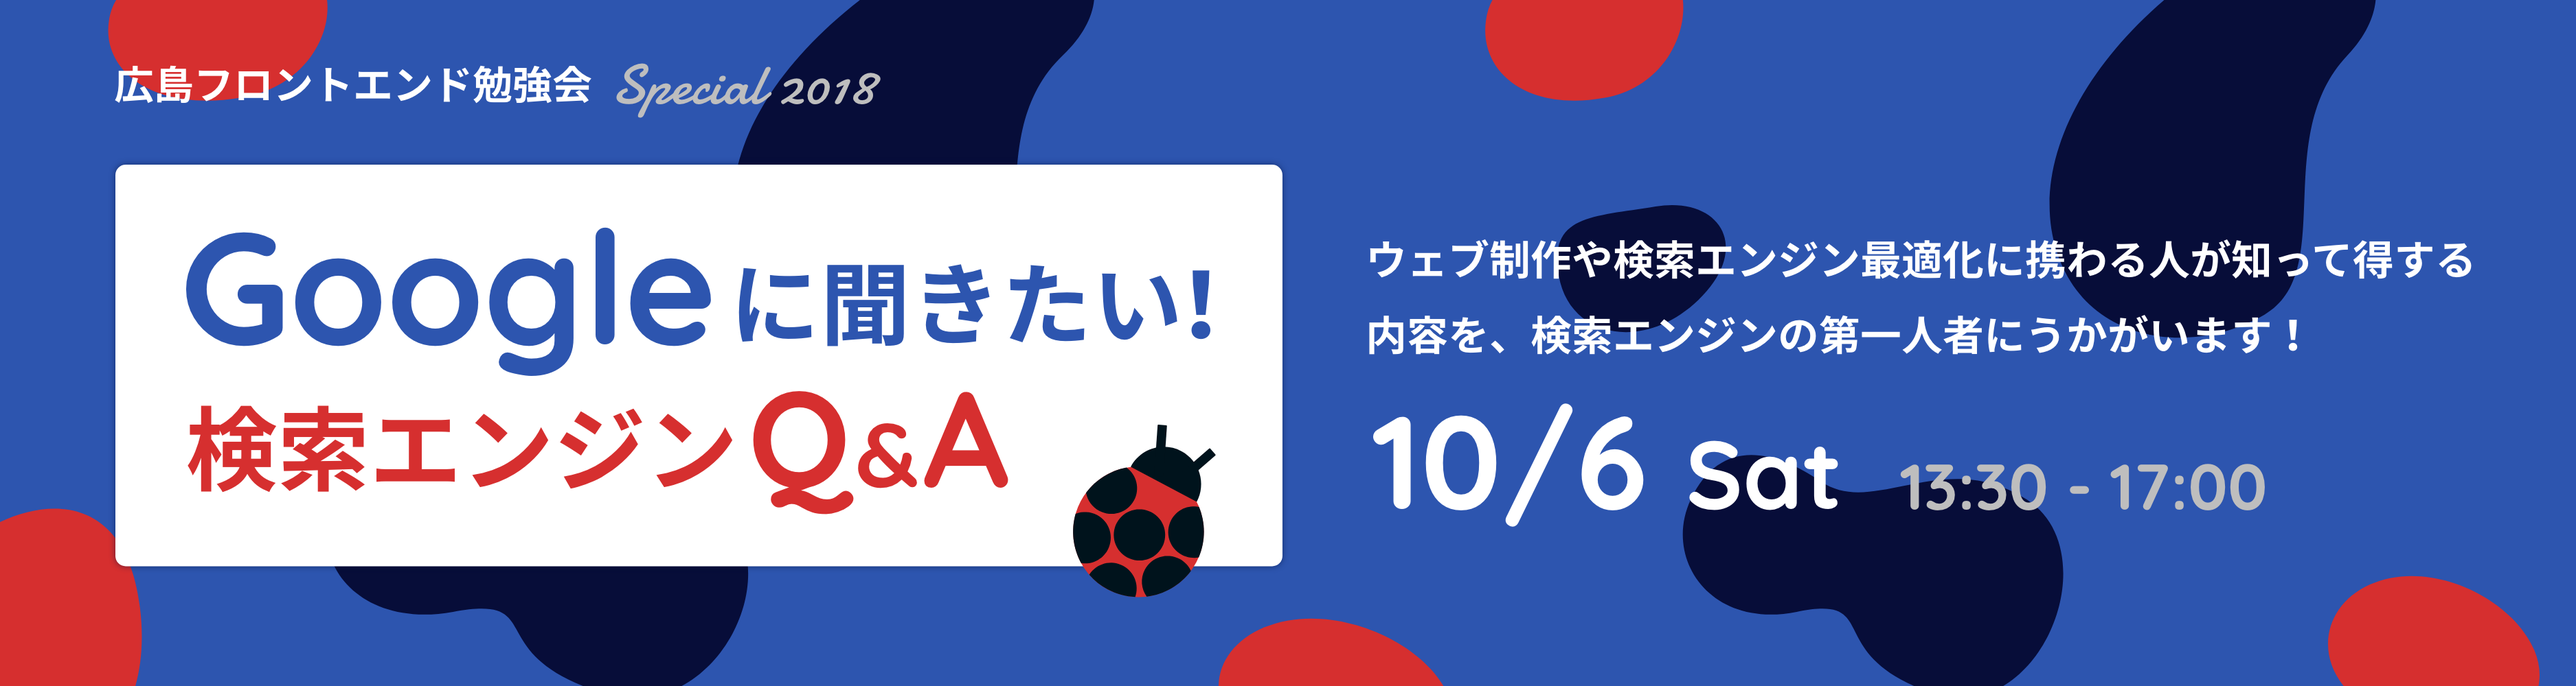
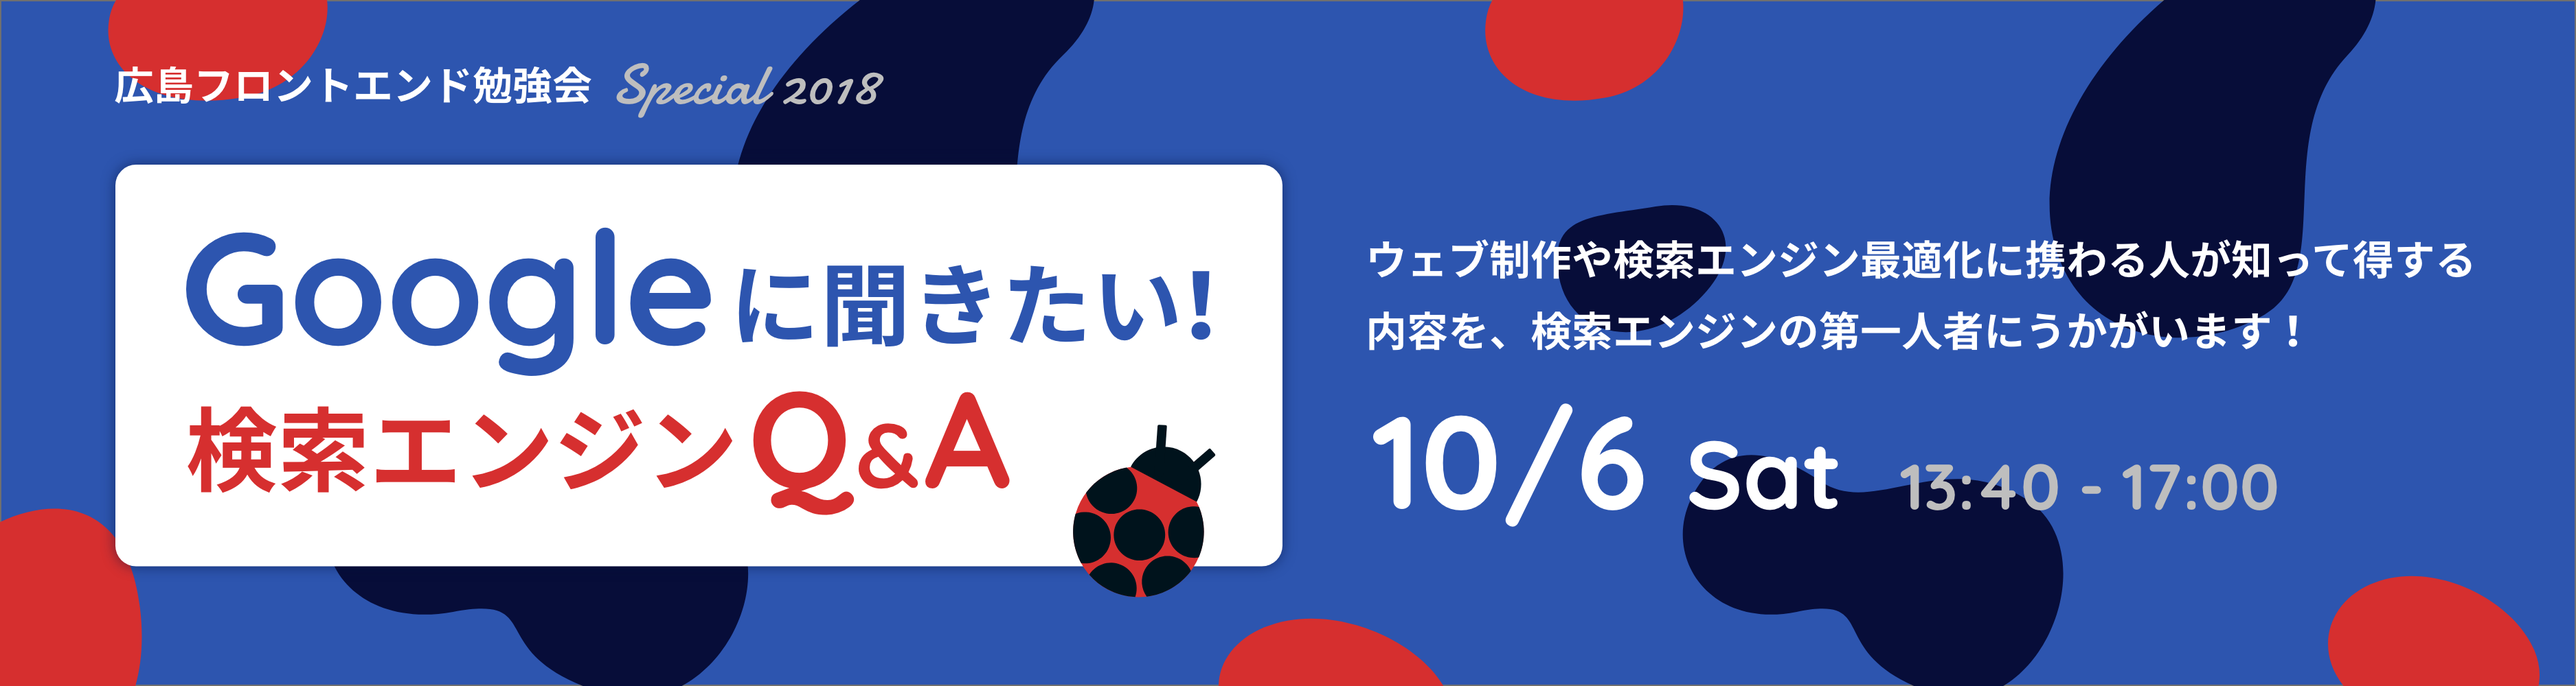
修正

diff --git a/htdocs/2018/common/css/style.css b/htdocs/2018/common/css/style.css
@@ -1,2 +1,2 @@
-article,aside,details,figcaption,figure,footer,header,hgroup,hr,menu,nav,section{display:block}a,hr{padding:0}a,sub,sup{vertical-align:baseline}.header,.table{width:100%}html{-webkit-box-sizing:border-box;box-sizing:border-box;overflow-y:scroll;-webkit-text-size-adjust:100%}*,::after,::before{-webkit-box-sizing:inherit;box-sizing:inherit}::after,::before{text-decoration:inherit;vertical-align:inherit}abbr,address,article,aside,audio,b,blockquote,body,canvas,caption,cite,code,dd,del,details,dfn,div,dl,dt,em,fieldset,figcaption,figure,footer,form,h1,h2,h3,h4,h5,h6,header,hgroup,html,i,iframe,img,ins,kbd,label,legend,li,mark,menu,nav,object,ol,p,pre,q,samp,section,small,span,strong,sub,summary,sup,table,tbody,td,tfoot,th,thead,time,tr,ul,var,video{margin:0;padding:0;border:0;outline:0;font-size:100%;vertical-align:baseline;background:0 0}ins,mark{background-color:#ff9;color:#000}li,nav ul{list-style:none}blockquote,q{quotes:none}blockquote:after,blockquote:before,q:after,q:before{content:'';content:none}a{margin:0;font-size:100%;background:0 0;color:#2d55af;text-decoration:underline}ins{text-decoration:none}mark{font-style:italic;font-weight:700}del{text-decoration:line-through}.footer a,.form_btn a,.gnav ul li a,a:hover{text-decoration:none}abbr[title],dfn[title]{border-bottom:1px dotted;cursor:help}table{border-collapse:collapse;border-spacing:0}hr{height:1px;border:0;border-top:1px solid #ccc;margin:1em 0}sub,sup{font-size:75%;line-height:0;position:relative}.table td,.table th,input,select{vertical-align:middle}sub{bottom:-.25em}sup{top:-.5em}input[type=button],input[type=submit]{-webkit-appearance:none}html{font-size:62.5%}body{font-family:Verdana,"游ゴシック","游ゴシック体",YuGothic,"Yu Gothic","ヒラギノ角ゴ ProN W3","Hiragino Kaku Gothic ProN","メイリオ",Meiryo,sans-serif;line-height:1.5;background-color:#fff;color:#00131c}::-moz-selection{background:#b3d4fc;text-shadow:none}::-moz-selection,::selection{background:#b3d4fc;text-shadow:none}h1,h2,h3,h4,h5,h6{font-weight:400}.gnav,.header_inner h1 span{font-weight:700}button,input,select,textarea{color:#000}button:focus,input:focus,select:focus,textarea:focus{outline:0}textarea{resize:vertical}input[type=submit],label{cursor:pointer}a:hover{opacity:.7}article{margin-top:-76px;padding-top:76px}.header{position:fixed;left:0;top:0;z-index:99;background-color:#2d55af;-webkit-box-shadow:0 3px 6px 0 rgba(0,0,0,.16);box-shadow:0 3px 6px 0 rgba(0,0,0,.16)}.header_inner{position:relative;max-width:1160px;margin:0 auto;padding:7px 20px 5px;display:-webkit-box;display:-ms-flexbox;display:flex;-webkit-box-align:center;-ms-flex-align:center;align-items:center}.header_inner h1{color:#fff;font-size:1.8rem;text-align:center}.gnav ul li,.lead p{font-size:1.6rem}.header_inner .menu_open{display:none}.gnav{margin-left:auto}.gnav .nav_title{display:none;padding:7px 20px 5px}.gnav ul{display:-webkit-box;display:-ms-flexbox;display:flex}.gnav .close,.hero .down{display:none}.gnav ul li:not(:last-child){margin-right:30px}.hero,.lead,.main{margin:0 auto}.gnav ul li a{color:#fff}.hero{position:relative;max-width:1860px;padding-top:55px}.form_btn a,.lead i{display:block;text-align:center}.main{max-width:840px}.lead{max-width:720px;padding:60px 0}.lead_inner{padding:0 20px}.lead i{margin-bottom:20px}.lead p{line-height:2}.lead p small{font-size:1.3rem}.form_btn{max-width:246px;margin:40px auto 0;border-radius:25px;border:2px solid #d62f2f;font-size:1.6rem;overflow:hidden}.art_title,.lecturer_info .name{font-size:2rem;font-weight:700}.form_btn a{color:#d62f2f;padding:.7em 1em;-webkit-transition-property:background-color,color;transition-property:background-color,color;-webkit-transition-duration:.4s;transition-duration:.4s}.lecturer_head,.sponsor_l{display:-webkit-box;display:-ms-flexbox}.form_btn a:hover{background-color:#d62f2f;color:#fff;opacity:1}.art_title{background-color:#2d55af;color:#fff;text-align:center;padding:1em}.sponsor_inner .sponsor_table th,.table th{white-space:nowrap;background-color:#00131c;color:#fff}.lecturer_inner,.outline_inner{padding:60px 20px}.lecturer_head{max-width:500px;margin:0 auto;display:flex;-webkit-box-align:center;-ms-flex-align:center;align-items:center}.lecturer_img{max-width:246px}.lecturer_info{width:100%;text-align:center;margin-left:30px}.lecturer_info .company{font-size:1.6rem;font-weight:700;margin-top:26px}.lecturer_main{margin-top:40px}.lecturer_main p{font-size:1.6rem;line-height:2}.outline_inner p{font-size:1.4rem;line-height:1.8}.access_inner p,.sponsor_area p,.sponsor_inner p{line-height:2;font-size:1.6rem}.outline_inner p+p{margin-top:5px}.table td,.table th{font-size:1.6rem;text-align:left;padding:.6em 1em;border:1px solid #707070}.footer p,.sponsor_area .section_img,.sponsor_area h3,.sponsor_inner .sponsor_table td{text-align:center}.table th{width:15em}.access_inner{padding:60px 20px}.access_inner p{margin-bottom:20px}.access iframe{width:100%;height:350px}.ama{margin-top:-39px;padding-top:79px}.sponsor{padding-bottom:60px}.sponsor_inner{padding:60px 20px}.sponsor_inner .table_wrap{min-width:300px}.sponsor_inner .sponsor_table{width:100%}.sponsor_inner .sponsor_table td,.sponsor_inner .sponsor_table th{font-size:1.6rem;vertical-align:middle;padding:.6em 1em;border:1px solid #707070}.sponsor_inner .sponsor_table th{width:15em;text-align:center}.sponsor_area{padding:30px 20px 0;border-top:solid 1px #707070}.sponsor_l img,.sponsor_s img{height:auto;border:1px solid #c2c2c2}.sponsor_area h3{font-size:1.6rem;font-weight:700}.sponsor_area .section_img{margin:20px 0}.sponsor_l{margin-top:60px;display:flex;-ms-flex-wrap:wrap;flex-wrap:wrap;margin-left:-2%}.sponsor_l li{width:48%;margin-left:2%;margin-bottom:15px}.sponsor_l li:nth-last-child(-n+2){margin-bottom:0}.sponsor_l img{width:100%}.sponsor_s{display:-webkit-box;display:-ms-flexbox;display:flex;-ms-flex-wrap:wrap;flex-wrap:wrap;margin-left:-2%}.sponsor_s li{width:31.333%;margin-left:2%;margin-top:30px}.sponsor_s img{width:100%;background-color:#fff}.footer{background-color:#2d55af;color:#fff;padding:20px}.footer p{font-size:1.6rem}.footer a{color:#fff}.footer .copy{font-size:1.2rem}.goup{position:fixed;right:10px;bottom:10px;z-index:99}.session{font-size:1.6rem;margin-bottom:50px}.session_sub_header{border-bottom:1px solid #2d55af;margin-bottom:20px;padding-bottom:5px}.session_inner_title{font-size:2.4rem;font-weight:700;margin-bottom:20px}.session small{font-size:1.3rem}.section_inner_text p{margin-bottom:5px}.mt20{margin-top:20px}.ul{margin-bottom:20px;font-size:1.4rem}.ul li{text-indent:-15px;margin-left:15px}.ul li::before{margin-right:5px;border-radius:50%;content:'';width:10px;height:10px;display:inline-block;-webkit-transform:scale(.5,.5);transform:scale(.5,.5);background:#2d55af}@media screen and (max-width:640px){.gnav .close,.gnav .nav_title,.gnav ul li,.hero .down,.table th{text-align:center}.gnav,.header_inner h1,.sponsor_l li{width:100%}.header_inner .menu_open{display:block;position:absolute;right:20px}.gnav{display:none;position:fixed;left:0;top:0;height:100%;background-color:rgba(0,19,28,.8)}.gnav .close,.gnav .nav_title,.gnav ul,.gnav ul li a,.hero .down,.sponsor_l,.table tr{display:block}.gnav ul{margin-top:30px}.gnav ul li{max-width:246px;margin:0 auto;border:1px solid #fff;border-radius:25px}.gnav ul li:not(:last-child){margin:0 auto 20px}.gnav ul li a{padding:.6em}.gnav .close{margin-top:60px}.hero{padding-top:0}.hero .down{position:absolute;left:0;right:0;bottom:20px;margin:auto}.lecturer_info,.sponsor_l,.sponsor_l li{margin-left:0}.lead{padding:30px 0}.access_inner,.lecturer_inner,.outline_inner{padding:30px 20px}.lecturer_head{-webkit-box-orient:vertical;-webkit-box-direction:normal;-ms-flex-direction:column;flex-direction:column;-webkit-box-align:center;-ms-flex-align:center;align-items:center}.lecturer_info .name{margin-top:30px}.lecturer_info .company{margin-top:18px}.table tr+tr th{border-top:none}.table td,.table th{display:block;width:100%}.sponsor{padding-bottom:0}.sponsor_inner{padding:30px 20px;background-color:#eaeaea}.sponsor_inner .sponsor_table td,.sponsor_inner .sponsor_table th{font-size:1.4rem}.sponsor_area{background-color:#eaeaea;padding-bottom:30px}.sponsor_l li:not(:last-child){margin-bottom:10px}.sponsor_s li{width:48%}}
+article,aside,details,figcaption,figure,footer,header,hgroup,hr,menu,nav,section{display:block}a,hr{padding:0}a,sub,sup{vertical-align:baseline}.header,.table{width:100%}html{-webkit-box-sizing:border-box;box-sizing:border-box;overflow-y:scroll;-webkit-text-size-adjust:100%}*,::after,::before{-webkit-box-sizing:inherit;box-sizing:inherit}::after,::before{text-decoration:inherit;vertical-align:inherit}abbr,address,article,aside,audio,b,blockquote,body,canvas,caption,cite,code,dd,del,details,dfn,div,dl,dt,em,fieldset,figcaption,figure,footer,form,h1,h2,h3,h4,h5,h6,header,hgroup,html,i,iframe,img,ins,kbd,label,legend,li,mark,menu,nav,object,ol,p,pre,q,samp,section,small,span,strong,sub,summary,sup,table,tbody,td,tfoot,th,thead,time,tr,ul,var,video{margin:0;padding:0;border:0;outline:0;font-size:100%;vertical-align:baseline;background:0 0}ins,mark{background-color:#ff9;color:#000}li,nav ul{list-style:none}blockquote,q{quotes:none}blockquote:after,blockquote:before,q:after,q:before{content:'';content:none}a{margin:0;font-size:100%;background:0 0;color:#2d55af;text-decoration:underline}ins{text-decoration:none}mark{font-style:italic;font-weight:700}del{text-decoration:line-through}.footer a,.form_btn a,.gnav ul li a,a:hover{text-decoration:none}abbr[title],dfn[title]{border-bottom:1px dotted;cursor:help}table{border-collapse:collapse;border-spacing:0}hr{height:1px;border:0;border-top:1px solid #ccc;margin:1em 0}sub,sup{font-size:75%;line-height:0;position:relative}.table td,.table th,.time_table th,input,select{vertical-align:middle}sub{bottom:-.25em}sup{top:-.5em}input[type=button],input[type=submit]{-webkit-appearance:none}html{font-size:62.5%}body{font-family:Verdana,"游ゴシック","游ゴシック体",YuGothic,"Yu Gothic","ヒラギノ角ゴ ProN W3","Hiragino Kaku Gothic ProN","メイリオ",Meiryo,sans-serif;line-height:1.5;background-color:#fff;color:#00131c}::-moz-selection{background:#b3d4fc;text-shadow:none}::-moz-selection,::selection{background:#b3d4fc;text-shadow:none}h1,h2,h3,h4,h5,h6{font-weight:400}.gnav,.header_inner h1 span{font-weight:700}button,input,select,textarea{color:#000}button:focus,input:focus,select:focus,textarea:focus{outline:0}textarea{resize:vertical}input[type=submit],label{cursor:pointer}a:hover{opacity:.7}article{margin-top:-76px;padding-top:76px}.header{position:fixed;left:0;top:0;z-index:99;background-color:#2d55af;-webkit-box-shadow:0 3px 6px 0 rgba(0,0,0,.16);box-shadow:0 3px 6px 0 rgba(0,0,0,.16)}.header_inner{position:relative;max-width:1160px;margin:0 auto;padding:7px 20px 5px;display:-webkit-box;display:-ms-flexbox;display:flex;-webkit-box-align:center;-ms-flex-align:center;align-items:center}.header_inner h1{color:#fff;font-size:1.8rem;text-align:center}.gnav ul li,.lead p{font-size:1.6rem}.header_inner .menu_open{display:none}.gnav{margin-left:auto}.gnav .nav_title{display:none;padding:7px 20px 5px}.gnav ul{display:-webkit-box;display:-ms-flexbox;display:flex}.gnav .close,.hero .down{display:none}.gnav ul li:not(:last-child){margin-right:30px}.hero,.lead,.main{margin:0 auto}.gnav ul li a{color:#fff}.hero{position:relative;max-width:1860px;padding-top:55px}.form_btn a,.lead i{display:block;text-align:center}.main{max-width:840px}.lead{max-width:720px;padding:60px 0}.lead_inner{padding:0 20px}.lead i{margin-bottom:20px}.lead p{line-height:2}.lead p small{font-size:1.3rem}.form_btn{max-width:246px;margin:40px auto 0;border-radius:25px;border:2px solid #d62f2f;font-size:1.6rem;overflow:hidden}.art_title,.lecturer_info .name{font-size:2rem;font-weight:700}.form_btn a{color:#d62f2f;padding:.7em 1em;-webkit-transition-property:background-color,color;transition-property:background-color,color;-webkit-transition-duration:.4s;transition-duration:.4s}.lecturer_head,.sponsor_l{display:-webkit-box;display:-ms-flexbox}.form_btn a:hover{background-color:#d62f2f;color:#fff;opacity:1}.art_title{background-color:#2d55af;color:#fff;text-align:center;padding:1em}.sponsor_inner .sponsor_table th,.table th{white-space:nowrap;background-color:#00131c;color:#fff}.lecturer_inner,.outline_inner{padding:60px 20px}.lecturer_head{max-width:500px;margin:0 auto;display:flex;-webkit-box-align:center;-ms-flex-align:center;align-items:center}.lecturer_img{max-width:246px}.lecturer_info{width:100%;text-align:center;margin-left:30px}.lecturer_info .company{font-size:1.6rem;font-weight:700;margin-top:26px}.lecturer_main{margin-top:40px}.lecturer_main p{font-size:1.6rem;line-height:2}.outline_inner p{font-size:1.4rem;line-height:1.8}.access_inner p,.sponsor_area p,.sponsor_inner p{line-height:2;font-size:1.6rem}.outline_inner p+p{margin-top:5px}.table td,.table th{font-size:1.6rem;text-align:left;padding:.6em 1em;border:1px solid #707070}.footer p,.sponsor_area .section_img,.sponsor_area h3,.sponsor_inner .sponsor_table td{text-align:center}.table th{width:15em}.access_inner{padding:60px 20px}.access_inner p{margin-bottom:20px}.access iframe{width:100%;height:350px}.ama{margin-top:-39px;padding-top:79px}.sponsor{padding-bottom:60px}.sponsor_inner{padding:60px 20px}.sponsor_inner .table_wrap{min-width:300px}.sponsor_inner .sponsor_table{width:100%}.sponsor_inner .sponsor_table td,.sponsor_inner .sponsor_table th{font-size:1.6rem;vertical-align:middle;padding:.6em 1em;border:1px solid #707070}.sponsor_inner .sponsor_table th{width:15em;text-align:center}.sponsor_area{padding:30px 20px 0;border-top:solid 1px #707070}.sponsor_l img,.sponsor_s img{height:auto;border:1px solid #c2c2c2}.sponsor_area h3{font-size:1.6rem;font-weight:700}.sponsor_area .section_img{margin:20px 0}.sponsor_l{margin-top:60px;display:flex;-ms-flex-wrap:wrap;flex-wrap:wrap;margin-left:-2%}.sponsor_l li{width:48%;margin-left:2%;margin-bottom:15px}.sponsor_l li:nth-last-child(-n+2){margin-bottom:0}.sponsor_l img{width:100%}.sponsor_s{display:-webkit-box;display:-ms-flexbox;display:flex;-ms-flex-wrap:wrap;flex-wrap:wrap;margin-left:-2%}.sponsor_s li{width:31.333%;margin-left:2%;margin-top:30px}.sponsor_s img{width:100%;background-color:#fff}.footer{background-color:#2d55af;color:#fff;padding:20px}.footer p{font-size:1.6rem}.footer a{color:#fff}.footer .copy{font-size:1.2rem}.goup{position:fixed;right:10px;bottom:10px;z-index:99}.session{font-size:1.6rem;margin-bottom:50px}.session_sub_header{border-bottom:1px solid #2d55af;margin-bottom:20px;padding-bottom:5px}.session_inner_title{font-size:2.4rem;font-weight:700;margin-bottom:20px}.session small{font-size:1.3rem}.time_table,.ul{font-size:1.4rem}.section_inner_text p{margin-bottom:5px}.mt20{margin-top:20px}.ul{margin-bottom:20px}.ul li{text-indent:-15px;margin-left:15px}.ul li::before{margin-right:5px;border-radius:50%;content:'';width:10px;height:10px;display:inline-block;-webkit-transform:scale(.5,.5);transform:scale(.5,.5);background:#2d55af}.time_table{margin-top:-50px;padding-top:80px}.time_table td,.time_table th{padding:.6em 1em;border:1px solid #707070}.time_table caption{font-size:1.8rem;margin-bottom:.8em;font-weight:700}.time_table th{background-color:#00131c;color:#fff}.time_table td{vertical-align:top}@media screen and (max-width:640px){.gnav .close,.gnav .nav_title,.gnav ul li,.hero .down,.table th{text-align:center}.gnav,.header_inner h1,.sponsor_l li{width:100%}.header_inner .menu_open{display:block;position:absolute;right:20px}.gnav{display:none;position:fixed;left:0;top:0;height:100%;background-color:rgba(0,19,28,.8)}.gnav .close,.gnav .nav_title,.gnav ul,.gnav ul li a,.hero .down,.sponsor_l,.table tr{display:block}.gnav ul{margin-top:30px}.gnav ul li{max-width:246px;margin:0 auto;border:1px solid #fff;border-radius:25px}.gnav ul li:not(:last-child){margin:0 auto 20px}.gnav ul li a{padding:.6em}.gnav .close{margin-top:60px}.hero{padding-top:0}.hero .down{position:absolute;left:0;right:0;bottom:20px;margin:auto}.lecturer_info,.sponsor_l,.sponsor_l li{margin-left:0}.lead{padding:30px 0}.access_inner,.lecturer_inner,.outline_inner{padding:30px 20px}.lecturer_head{-webkit-box-orient:vertical;-webkit-box-direction:normal;-ms-flex-direction:column;flex-direction:column;-webkit-box-align:center;-ms-flex-align:center;align-items:center}.lecturer_info .name{margin-top:30px}.lecturer_info .company{margin-top:18px}.table tr+tr th{border-top:none}.table td,.table th{display:block;width:100%}.sponsor{padding-bottom:0}.sponsor_inner{padding:30px 20px;background-color:#eaeaea}.sponsor_inner .sponsor_table td,.sponsor_inner .sponsor_table th{font-size:1.4rem}.sponsor_area{background-color:#eaeaea;padding-bottom:30px}.sponsor_l li:not(:last-child){margin-bottom:10px}.sponsor_s li{width:48%}}
 /*# sourceMappingURL=map/style.css.map */

diff --git a/htdocs/2018/index.html b/htdocs/2018/index.html
@@ -239,7 +239,7 @@
             </tr>
             <tr>
               <th>開催日時</th>
-              <td>2018年10月6日(土) 13:30 - 17:00（13:00開場）</td>
+              <td>2018年10月6日(土) 13:40 - 17:15（13:15開場）</td>
             </tr>
             <tr>
               <th>出演者</th>
@@ -260,7 +260,7 @@
             <tr>
               <th>参加費</th>
               <td>
-                早割 : 4000円 ※9月15日までにお申込みの方<br> 通常 : 5000円
+                <s>早割 : 4000円</s> <br><s>※9月15日までにお申込みの方</s><br>※早割は終了しました。<br> 通常 : 5000円
               </td>
             </tr>
             <tr>
@@ -269,12 +269,14 @@
             </tr>
             <tr>
               <th>懇親会</th>
-              <td>懇親会費：4500円<br>※ 詳細は追ってお知らせします。</td>
+              <td>懇親会費：4500円<br>
+                  ※満席となりました。キャンセル待ちを受け付けております。
+                  <br><a href="https://sakanayadojo-official.com/shop/hiroshima_tatemachi/" target="_blank" rel="noopener">かき小屋 さかなや道場</a><br>(広島県広島市中区立町1-7 新世紀ビル1F)<br><a href="https://goo.gl/maps/vptLPdBc7MJ2" target="_blank" rel="noopener">懇親会場MAP</a></td>
             </tr>
             <tr>
               <th>協賛</th>
               <td>
-                <ul class="ul">
+                <ul>
                   <li><a href="https://leadspace.co.jp" target="_blank" rel="noopener">リードスペース株式会社</a></li>
                   <li><a href="https://www.phonogram.co.jp/" target="_blank" rel="noopener">株式会社フォノグラム</a></li>
                   <li><a href="https://can-do.co.jp/" target="_blank" rel="noopener">株式会社カンドウコーポレーション</a></li>
@@ -286,14 +288,66 @@
               </td>
             </tr>
           </table>
+          <div class="time_table" id="time_table">
+            <table>
+              <caption>タイムテーブル</caption>
+              <thead>
+                <tr>
+                  <th>時間</th>
+                  <th>内容</th>
+                </tr>
+            
+              </thead>
+              <tbody>
+                <tr>
+                  <td>13:15 ~</td>
+                  <td>開場、受付開始</td>
+                </tr>
+                <tr>
+                  <td>13:40 ~</td>
+                  <td>オープニング</td>
+                </tr>
+                <tr>
+                  <td>13:45 ~ 14:25</td>
+                  <td><a href="#kanai">SEO対策は筋トレだ</a><br>リードスペース株式会社 金井 由宇</td>
+                </tr>
+                <tr>
+                  <td>14:25 ~ 14:35</td>
+                  <td>休憩<br>(進行状況により増減する場合があります)</td>
+                </tr>
+                <tr>
+                  <td>14:35 ~ 15:15</td>
+                  <td><a href="#kanaya">Google 検索最新情報</a><br>Google 検索エヴァンジェリスト 金谷 武明</td>
+                </tr>
+                <tr>
+                  <td>15:15 ~ 15:30</td>
+                  <td>休憩<br>(進行状況により増減する場合があります)</td>
+                </tr>
+                <tr>
+                  <td>15:30 ~ 16:10</td>
+                  <td><a href="#suzuki">今すぐできる、モバイルユーザー体験向上のための Google SEO
+                      〜スピード改善、リッチリザルト、ローカル検索対応 etc. 〜</a><br>海外SEO情報ブログ 鈴木 謙一</td>
+                </tr>
+                <tr>
+                  <td>16:25 ~ 17:05</td>
+                  <td><a href="#special">金谷氏 × 海外SEO情報ブログ 鈴木氏による Q&A セッション</a><br>たくさんの質問をお待ちしております。
+                      <a href="https://docs.google.com/forms/d/e/1FAIpQLSf7DcjHSQy_w-y_QnW6l2iA1hcXtkThQxwnKOZPG62Xb7CQ2g/viewform?usp=sf_link" target="_blank" rel="noopener">質問専用フォーム</a></td>
+                </tr>
+                <tr>
+                  <td>17:05 ~ 17:15</td>
+                  <td>エンディング</td>
+                </tr>
+              </tbody>
+            </table>
+          </div>
           <section class="ama" id="ama">
             <h3 class="session_inner_title">スペシャルセッション事前質問の受付方法について</h3>
             <p>本イベントでは事前に Google検索エンジンなどに関する質問を受け付けております。質問専用フォームを一般公開しておりますので、参加者のみなさま以外もご質問いただけます。以下の注意点をよくご確認の上、ご質問をお願いします。たくさんの質問をお待ちしております。</p>
             <ul class="ul mt20">
-              <li><small>本イベントでは簡単にランキングを上げる方法や裏技のようなテクニックは扱いません。それらに該当するようなご質問はご遠慮ください。</small></li>
+              <li><small>本イベントでは簡単にランキングを上げる方法や裏技のようなテクニックは扱いません。それらに該当するような質問はご遠慮ください。</small></li>
               <li><small>イベント開催時間の都合上、全ての質問が採用される訳ではありません。ご了承ください。</small></li>
             </ul>
-            <div class="form_btn"><a href="https://docs.google.com/forms/d/e/1FAIpQLSf7DcjHSQy_w-y_QnW6l2iA1hcXtkThQxwnKOZPG62Xb7CQ2g/viewform?usp=sf_link" target="_blank" rel="noopener">ご質問専用フォームへ</a></div>
+            <div class="form_btn"><a href="https://docs.google.com/forms/d/e/1FAIpQLSf7DcjHSQy_w-y_QnW6l2iA1hcXtkThQxwnKOZPG62Xb7CQ2g/viewform?usp=sf_link" target="_blank" rel="noopener">質問専用フォームへ</a></div>
           </section>
 
         </section>
